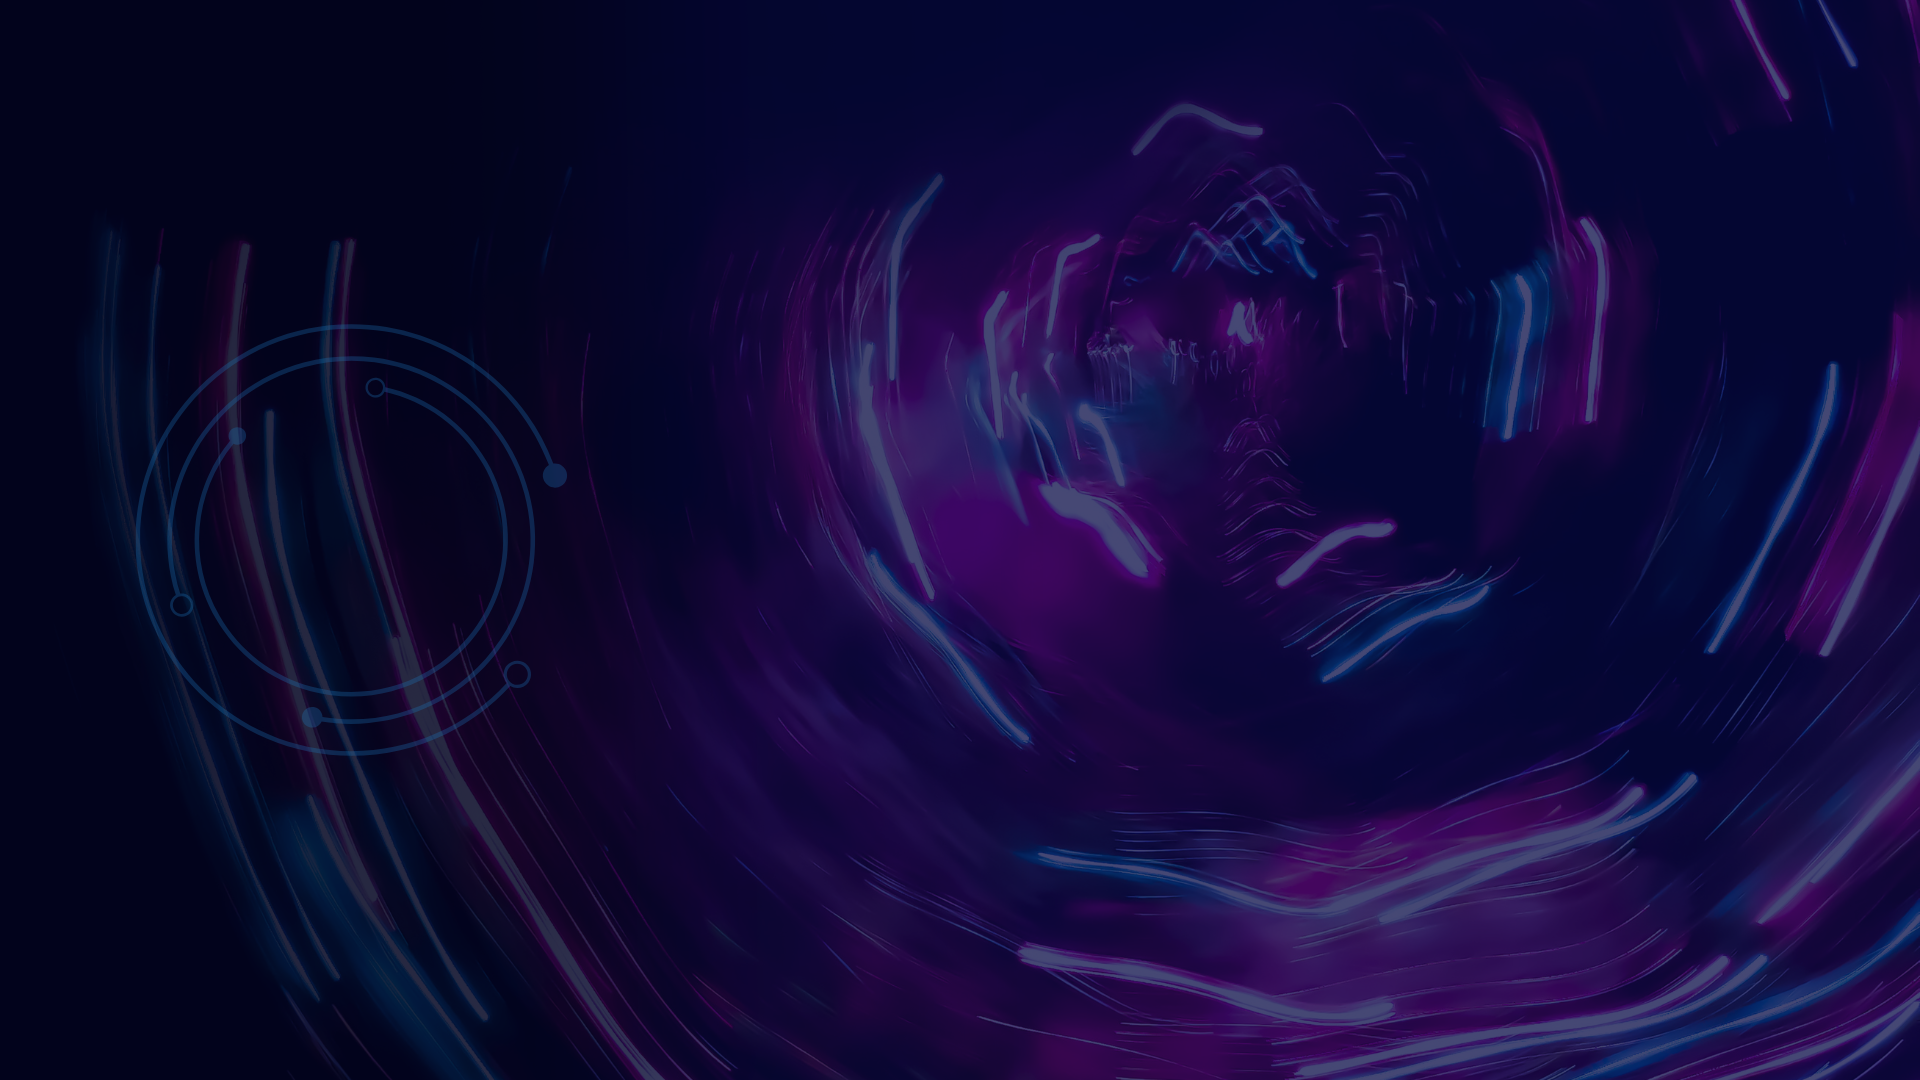
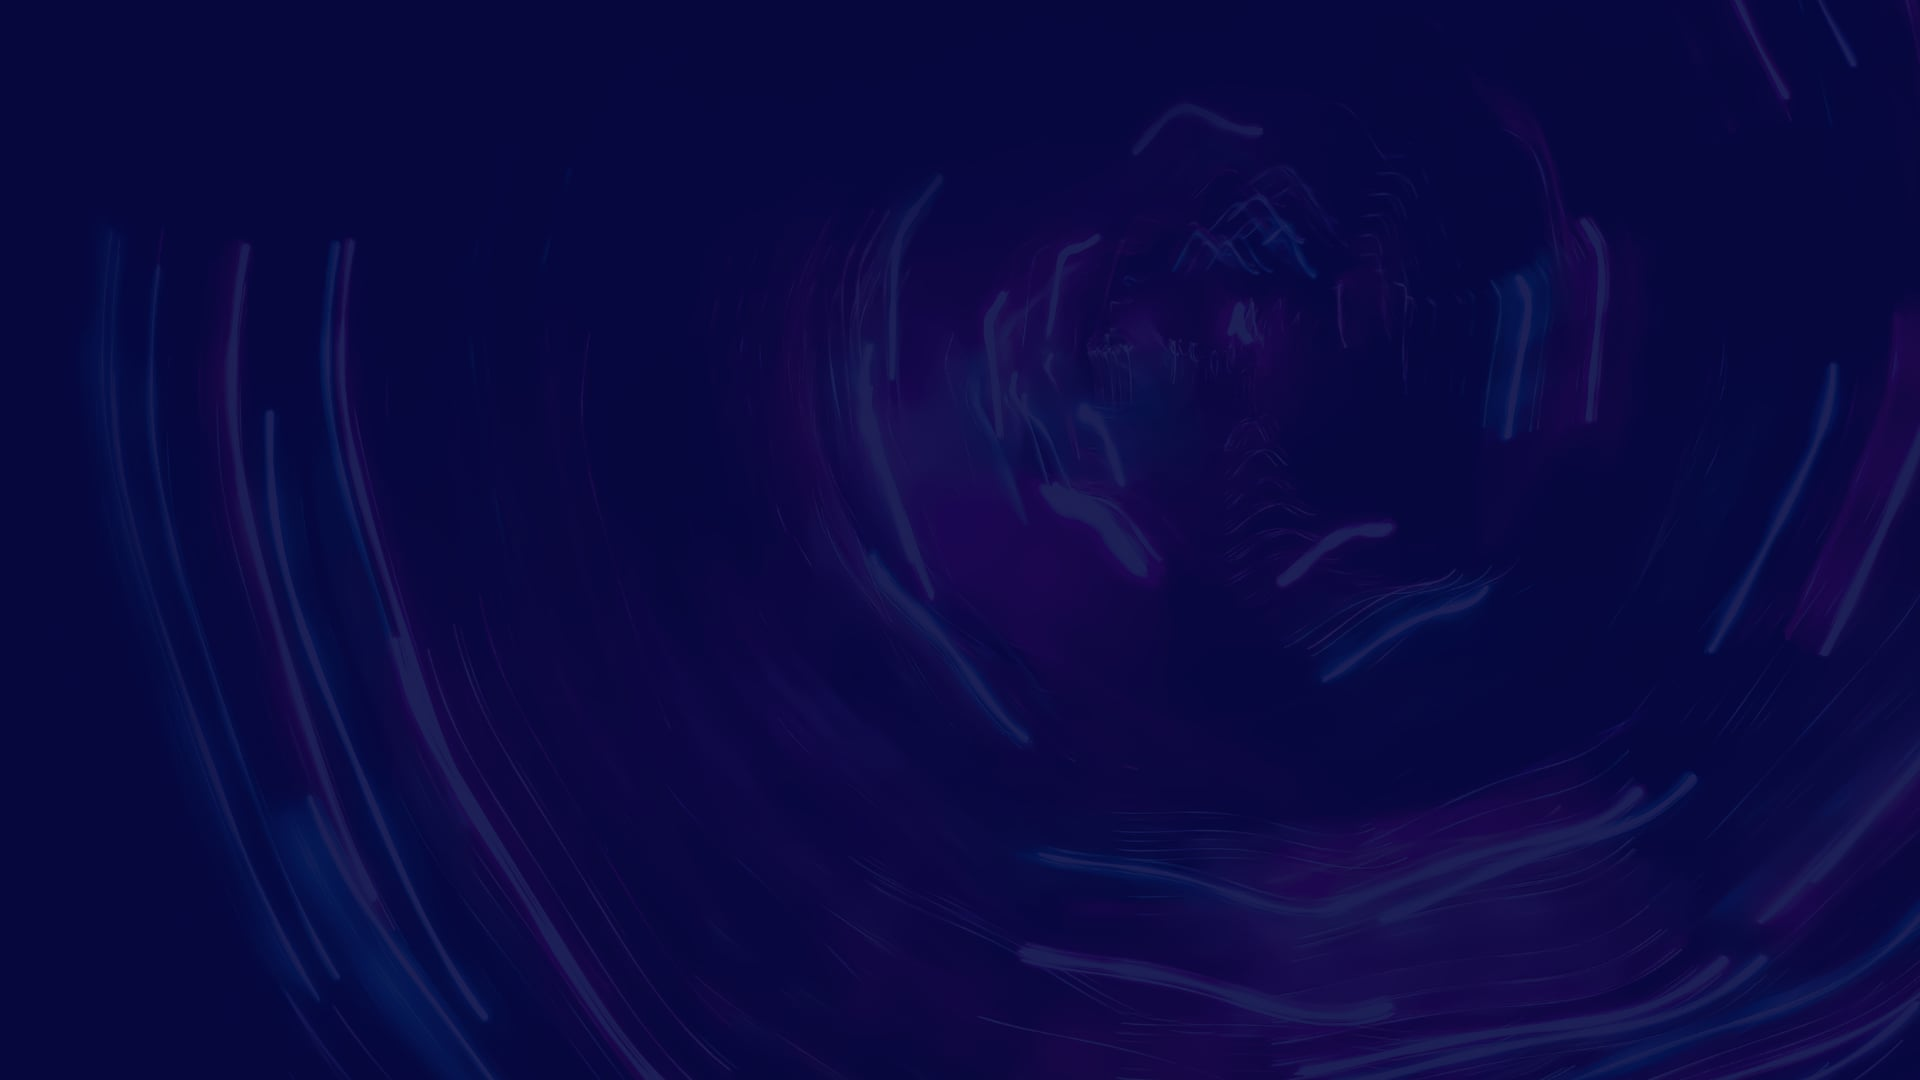
modify: Correct some areas as required

diff --git a/frontend/src/components/home/Feature/Feature.scss b/frontend/src/components/home/Feature/Feature.scss
@@ -19,19 +19,19 @@
     }
 
     .features {
-        @include main.flex(space-evenly, center, 1rem);
+        @include main.flex(center, center, 2rem);
         flex-wrap: wrap;
         margin-top: 3rem;
 
         .feature-item {
             @include main.flex(center, center, 1rem);
-            width: 10rem;
+            width: 12rem;
             border-radius: 0.8rem;
             background-color: main.$white;
             text-decoration: none;
-            font-size: 1.1rem;
+            font-size: 1.3rem;
             color: main.$black;
-            padding: 0.5rem 0;
+            padding: 0.6rem 0;
             transition: background-color 0.3s;
 
             .feature-item__icon {
@@ -55,8 +55,9 @@
         transform: translateX(-50%);
         padding: 3rem 2rem;
         border-radius: 1.5rem;
-        height: 50vh;
-        width: 80vw;
+        height: 55vh;
+        width: 60vw;
+        min-width: 44rem;
         text-align: center;
         margin: auto;
 
@@ -77,7 +78,7 @@
     }
 }
 
-@media (max-width: main.$sm) {
+@media (max-width: main.$md) {
     .introduce {
         display: none !important;
     }

diff --git a/frontend/src/components/navbar/Navbar.scss b/frontend/src/components/navbar/Navbar.scss
@@ -5,7 +5,7 @@
     position: relative;
     background: transparent;
     color: main.$white;
-    padding: 0.5rem 1rem;
+    padding: 0.5rem 2rem;
     z-index: 100;
 
     .nav__logo,
@@ -24,7 +24,7 @@
         .sign-in,
         .register {
             @include main.margin-x(0.3rem);
-            @include main.btn(0.5rem 0, main.$white, 1px solid main.$blue, 1rem);
+            @include main.btn(0.3rem 0, main.$white, 1px solid main.$blue, 1rem);
 
             justify-content: center !important;
             width: 6.5rem;
@@ -46,6 +46,7 @@
         position: relative;
         color: main.$white;
         user-select: none;
+        font-weight: 500;
 
         & > *:first-child {
             cursor: pointer;

diff --git a/frontend/src/components/home/MyTeam/MyTeam.scss b/frontend/src/components/home/MyTeam/MyTeam.scss
@@ -16,16 +16,16 @@
     }
 
     .members {
-        @include main.flex(space-evenly, unset, 1rem);
+        @include main.flex(space-evenly, unset, 3rem);
         flex-wrap: wrap;
         width: 100%;
     }
 
     .member-card {
         background-color: main.$white;
-        $size: 25vw;
+        $size: 20vw;
         width: $size;
-        min-width: 20rem;
+        min-width: 19rem;
         height: $size * 0.8;
         min-height: 15rem;
         border-radius: 1.5rem;
@@ -53,7 +53,7 @@
 
         &:nth-child(1),
         &:nth-child(3) {
-            background-color: main.$blue;
+            background-color: main.$dark-blue-100;
             border: none;
             color: main.$white;
 

diff --git a/frontend/src/components/home/Home.jsx b/frontend/src/components/home/Home.jsx
@@ -1,13 +1,19 @@
-import { memo } from 'react';
-import './Home.scss'
-import MyTeam from './MyTeam/MyTeam';
-import Feature from './Feature/Feature';
+import { memo } from "react";
+import "./Home.scss";
+import MyTeam from "./MyTeam/MyTeam";
+import Feature from "./Feature/Feature";
+import Introduce from "./Introduce/Introduce";
+import OurView from "./OurView/OurView";
+import FAQS from "./FAQS/FAQS";
 
 function Home() {
     return (
         <>
             <Feature />
             <MyTeam />
+            <Introduce />
+            <OurView />
+            <FAQS />
         </>
     );
 }

diff --git a/frontend/src/App.js b/frontend/src/App.js
@@ -1,5 +1,4 @@
 import { Route, Routes } from "react-router-dom";
-import Contact from "./components/Contact/Contact";
 import Footer from "./components/footer/Footer";
 import Header from "./components/header/Header";
 import Home from "./components/home/Home";
@@ -14,7 +13,7 @@ function App() {
             <div className="content"></div>
             <Routes>
                 <Route index element={<Home />} />
-                <Route path="/contact" element={<Contact />} />
+                
             </Routes>
             <Footer />
             <UtilButtonContainer>

diff --git a/frontend/src/components/navbar/Navbar.jsx b/frontend/src/components/navbar/Navbar.jsx
@@ -1,13 +1,13 @@
 import { IoMdSearch } from "react-icons/io";
 import { FaAngleDown } from "react-icons/fa";
 import { GiHamburgerMenu } from "react-icons/gi";
-
+import { memo, useEffect, useState } from "react";
+import { Link } from "react-router-dom";
 import LogoItem from "../LogoItem/LogoItem";
 import Tool from "./tool/Tool";
 import Search from "./search/Search";
 import "./Navbar.scss";
-import { memo, useEffect, useState } from "react";
-import { Link } from "react-router-dom";
+
 
 function Navbar() {
     const breakPoint = 768;

diff --git a/frontend/src/components/home/Introduce/Introduce.scss b/frontend/src/components/home/Introduce/Introduce.scss
@@ -14,7 +14,7 @@
         }
 
         p {
-            width: 80%;
+            width: 95%;
             text-align: justify;
             margin-bottom: 2rem
         }
@@ -33,7 +33,7 @@
         position: relative;
 
         & > * {
-            @include main.block(10rem, 1rem);
+            @include main.block(15rem, 1rem);
         }
 
         .circle {

diff --git a/frontend/src/components/header/Header.scss b/frontend/src/components/header/Header.scss
@@ -1,7 +1,7 @@
 @use "./../../styles/main";
 
 header.header {
-    @include main.background("./../../assets/images/background.png");
+    @include main.background("./images/background.png");
     overflow-x: hidden;
     position: relative;
     height: 100vh;

diff --git a/frontend/src/components/LogoItem/LogoItem.jsx b/frontend/src/components/LogoItem/LogoItem.jsx
@@ -5,7 +5,7 @@ function LogoItem(props) {
     return (
         <div className={`${LogoStyle.LogoItem} ${props.className}`}>
             <img src={logo} alt="logo" />
-            INVESTORAI
+            <div>INVESTORAI</div>
         </div>
     );
 }

diff --git a/frontend/src/styles/_variable.scss b/frontend/src/styles/_variable.scss
@@ -10,5 +10,6 @@ $light-blue: #67c4e2;
 $blue: #0086ff;
 $sea-blue: #80d6e4;
 $gray-blue: #1881bb;
+$dark-blue-100: #0072ff;
 $gray-white-100: #f5f6f8;
 $gray-white-200: #c7c7c7;

diff --git a/frontend/src/components/UtilButton/UtilButton.module.scss b/frontend/src/components/UtilButton/UtilButton.module.scss
@@ -1,6 +1,6 @@
 @use "sass:math";
 @use "./../../styles/main";
-$size: 4rem;
+$size: 3rem;
 
 .util-btn {
     @include main.btn(0, main.$white, 2px solid main.$gray-blue, 50%);

diff --git a/frontend/src/components/LogoItem/LogoItem.module.scss b/frontend/src/components/LogoItem/LogoItem.module.scss
@@ -14,4 +14,8 @@
     img {
         height: 100%;
     }
+
+    div {
+        transform: translateY(10%);
+    }
 }
